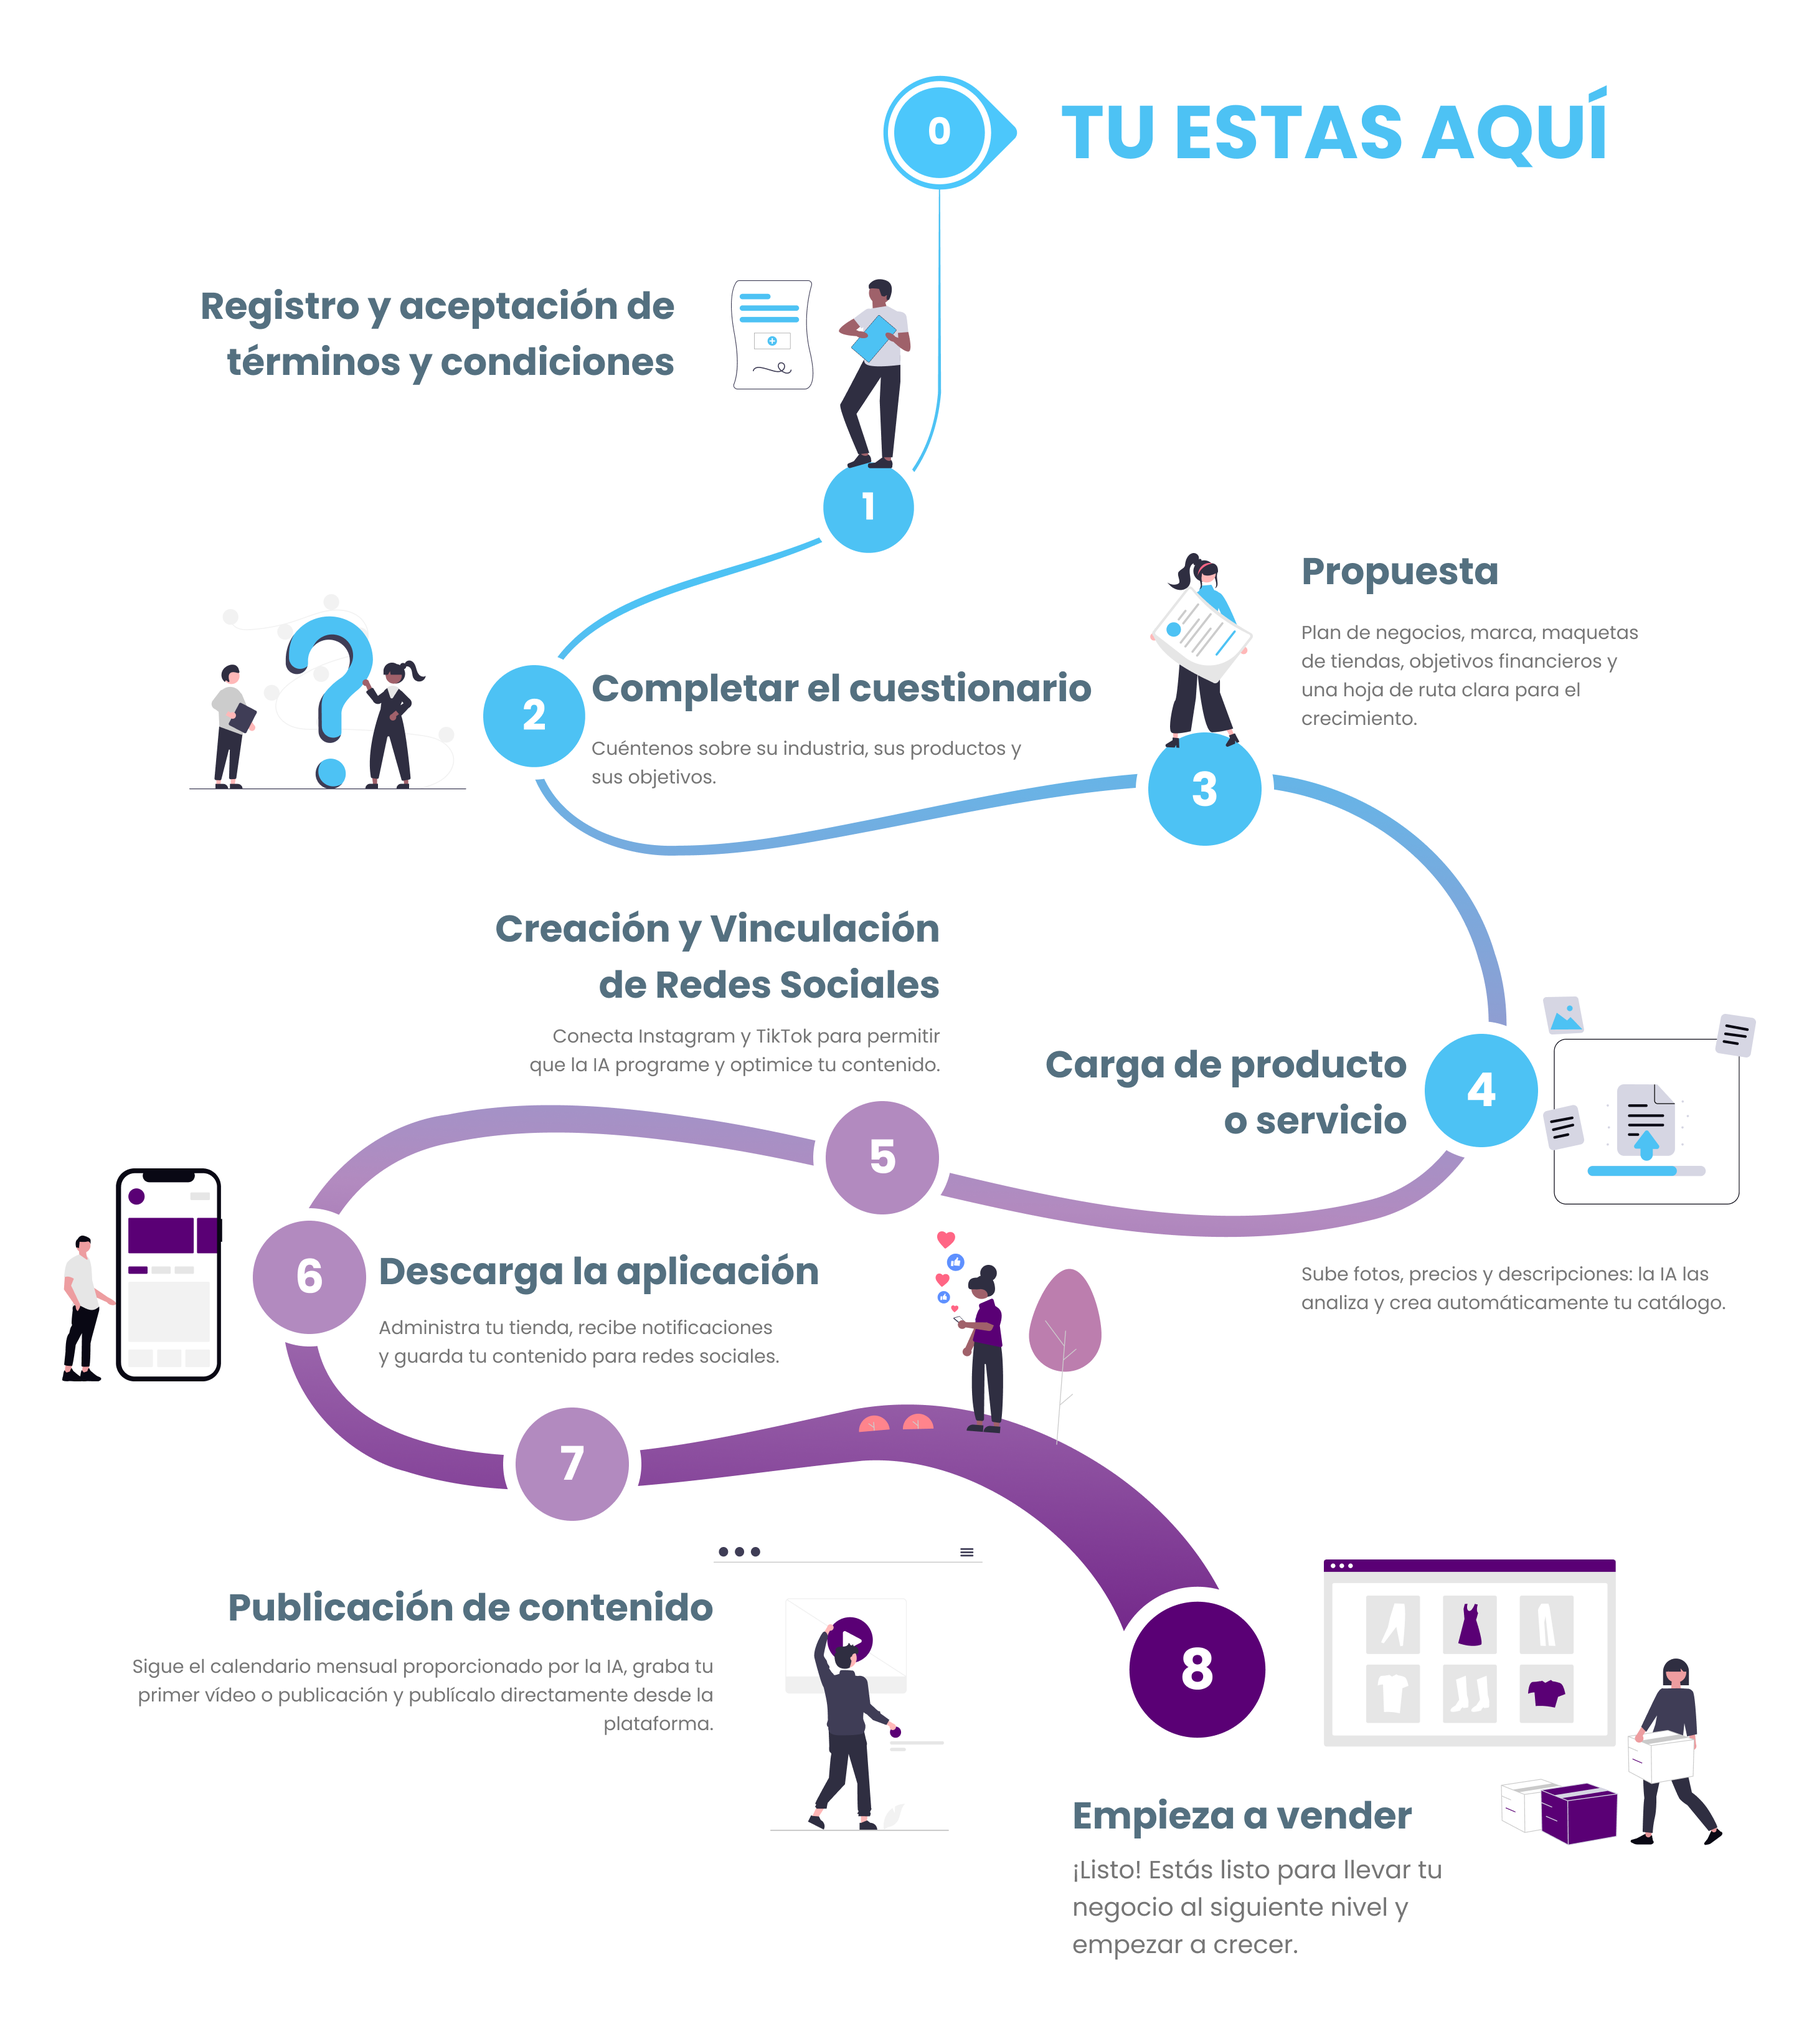
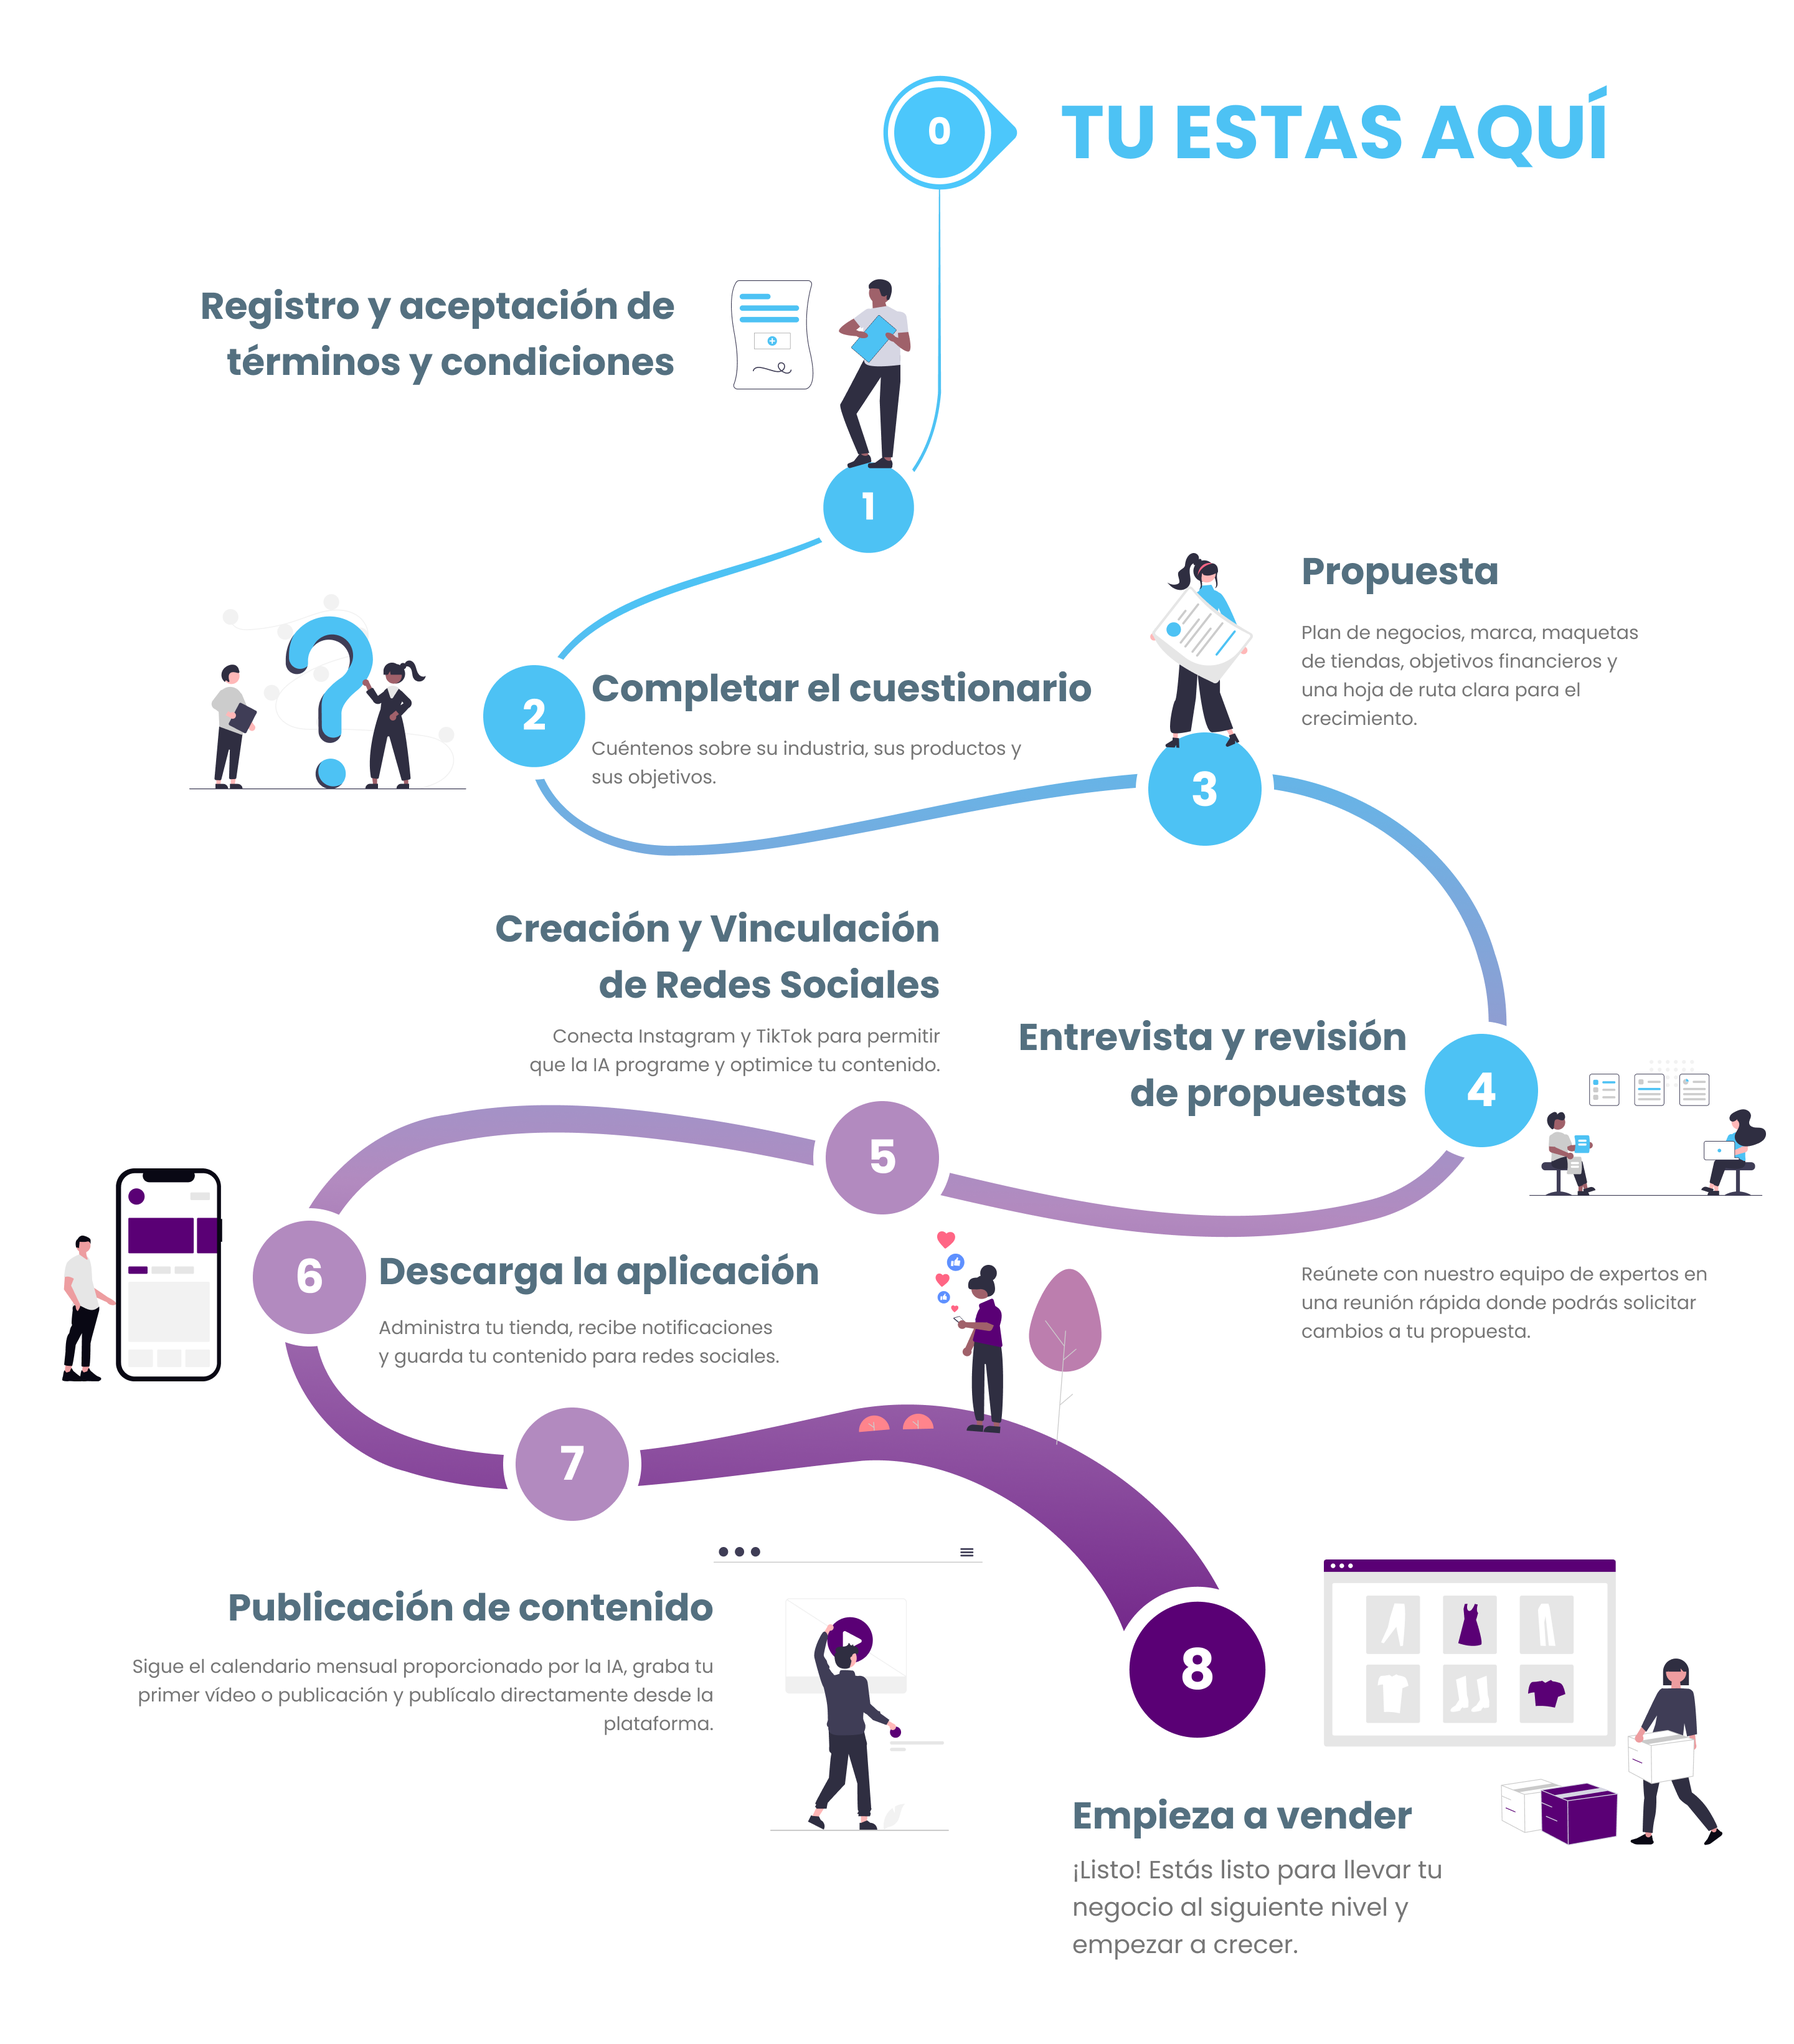
Landing page update

Changed region(s): [[0.8435, 0.4662, 0.9997, 0.5905], [0.5623, 0.4973, 0.781, 0.5594], [0.7185, 0.6216, 0.9684, 0.6527]]

diff --git a/src/routes/Login/index.tsx b/src/routes/Login/index.tsx
@@ -48,15 +48,13 @@ export default function SmallLanding() {
         </div>
         <div className={styles.heroContentContainer}>
           <h1 className={styles.heroTitle}>
-            {dict("hero.title.launch")} <span className={styles.primaryColor}>{dict("hero.title.fast")}</span>{" "}
+            {dict("hero.title.launch")} <span className={styles.primaryColor}>{dict("hero.title.fast")}</span>
             {dict("hero.title.and")} <span className={styles.secondaryColor}>{dict("hero.title.confidently")}</span>
           </h1>
           <h2 className={styles.heroSubtitle}>{dict("hero.subtitle1")}</h2>
           <h2 className={styles.heroSubtitle}>
             {dict("hero.subtitle2")}{" "}
-            <span className={styles.fontPrimaryColor}>
-              {dict("hero.subtitle2_handle")} <span className={styles.primaryColor}>{dict("hero.subtitle2_rest")}</span>
-            </span>
+            <span className={styles.secondaryColor}>{dict("hero.subtitle2_handle")}</span> {dict("hero.subtitle2_and")} <span className={styles.primaryColor}>{dict("hero.subtitle2_rest")}</span>
           </h2>
           <p className={styles.heroDescription}>
             <span className={styles.primaryBold}>{dict("hero.bloom_ai")}</span> {dict("hero.description")}{" "}
@@ -157,6 +155,29 @@ export default function SmallLanding() {
               width={2520}
               height={1626}
               className={styles.platformsImage}
+            />
+          </div>
+        </div>
+      </section>
+
+      {/* 5.2 Bloomit Peers Community */}
+      <section className={styles.bloomitCommunity}>
+        <div className={styles.communityContent}>
+          <div className={styles.communityContentText}>
+            <h1 className={styles.communityTitle}>
+              <span className={styles.primaryColor}>{dict("community.peers")}</span>{" "}
+              <span className={styles.secondaryColor}>{dict("community.network")}</span>
+            </h1>
+
+            <h4 className={styles.communitySubtitle}>{dict("community.subtitle")}</h4>
+          </div>
+          <div className={styles.communityImageContainer}>
+            <Image
+              src={getImageSrc("/peers_network")}
+              alt='Bloomit Peers Network'
+              width={1536}
+              height={1024}
+              className={styles.communityImage}
             />
           </div>
         </div>

diff --git a/src/routes/Login/loginLanding.module.scss b/src/routes/Login/loginLanding.module.scss
@@ -673,6 +673,109 @@
   }
 }
 
+/* Bloomit Platforms Section */
+.bloomitCommunity {
+  padding: 6rem 0rem;
+  background-color: var(--color-background);
+  display: flex;
+  align-items: center;
+  justify-content: center;
+}
+
+.communityContent {
+  display: flex;
+  flex-direction: column;
+  align-items: center;
+  gap: 3rem;
+  width: 100%;
+  text-align: center;
+}
+
+.communityContentText {
+  display: flex;
+  flex-direction: column;
+  align-items: center;
+  gap: 2rem;
+}
+
+.communityTitle {
+  font-size: var(--font-size-h2);
+  font-weight: var(--font-weight-bold);
+  margin: 0;
+  line-height: 1.2;
+}
+
+.communityTitle .primaryColor {
+  color: var(--color-primary) !important;
+}
+
+.communityTitle .secondaryColor {
+  color: var(--color-font-secondary) !important;
+}
+
+.communitySubtitle {
+  font-size: var(--font-size-h4);
+  font-weight: var(--font-weight-bold);
+  color: var(--color-font-secondary);
+  margin: 0;
+  line-height: 1.3;
+}
+
+.communityImageContainer {
+  width: 100%;
+  display: flex;
+  justify-content: center;
+  align-items: center;
+}
+
+.communityImage {
+  width: 100%;
+  height: auto;
+}
+
+/* Responsive design para Platforms Section */
+@media (min-width: 1024px) {
+  .bloomitCommunity {
+    padding: 4rem 0rem;
+  }
+
+  .communityContent {
+    gap: 1.5rem;
+  }
+
+  .communityContentText {
+    gap: 1.5rem;
+  }
+}
+
+@media (min-width: 1440px) {
+  .bloomitCommunity {
+    padding: 6rem 0rem;
+  }
+
+  .communityContent {
+    gap: 2rem;
+  }
+
+  .communityContentText {
+    gap: 2rem;
+  }
+}
+
+@media (min-width: 1920px) {
+  .bloomitCommunity {
+    padding: 8rem 0rem;
+  }
+
+  .communityContent {
+    gap: 3rem;
+  }
+
+  .communityContentText {
+    gap: 3rem;
+  }
+}
+
 /* Desktools Section */
 .desktoolsSection {
   padding: 4rem 0;
